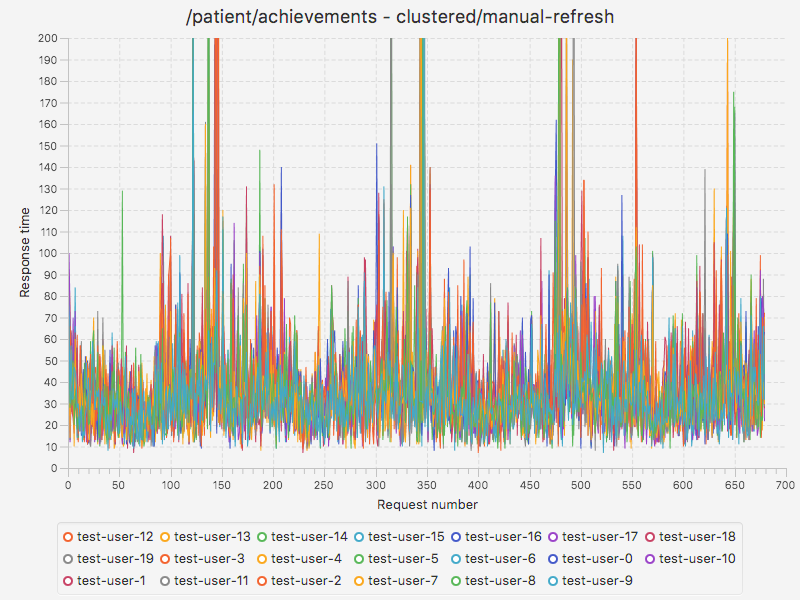
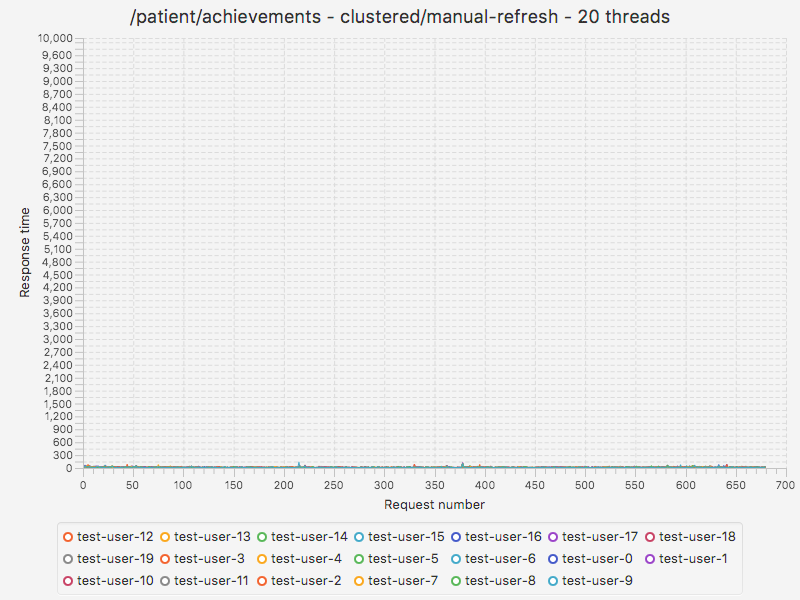
Updated code

Changed region(s): [[0.0312, 0.0, 0.9688, 0.87]]

diff --git a/src/main/java/RequestClass.java b/src/main/java/RequestClass.java
@@ -4,6 +4,7 @@ import org.json.JSONObject;
 
 import javax.net.ssl.HttpsURLConnection;
 import java.io.*;
+import java.net.HttpURLConnection;
 import java.net.URL;
 import java.nio.charset.StandardCharsets;
 import java.nio.file.Files;
@@ -24,7 +25,7 @@ public class RequestClass {
     private String client = "my-trusted-client";
     private String secret = "secret";
     private String host = Start.queryUrl;
-    private String http = "https://";
+    private String http = Start.http;
     private String scope = "read+trust+write";
     private String grantType = "password";
     private String[] skipArray = {"easy", "hard", "pain", "unclear"};
@@ -78,7 +79,7 @@ public class RequestClass {
         System.out.println("Creating user " + username);
         Date start = new Date();
         getAdminAccessToken();
-        HttpsURLConnection connection = getConnection("POST", createUserPath + username, true, true, false);
+        HttpURLConnection connection = getConnection("POST", createUserPath + username, true, true, false);
 
         connection.setRequestProperty( "Content-Type", "application/json");
         writeInRequest(connection, createUserValues);
@@ -118,7 +119,7 @@ public class RequestClass {
     public ArrayList<Long> postNewPlan(long dateTime) throws JSONException {
         Date start = new Date();
         System.out.println("Start new plan for user " + username);
-        HttpsURLConnection connection = getConnection("POST", planNextPath, true, true, false);
+        HttpURLConnection connection = getConnection("POST", planNextPath, true, true, false);
 
         String sendString = "";
         if(this.questions.length() != 0) {
@@ -140,7 +141,7 @@ public class RequestClass {
         boolean wait = waitForPosts;
         String jsonString = getResponse(connection, wait, false, sendString, planNextPath);
 
-        HttpsURLConnection conn = getConnection("GET", currentPlanPath, false, true, false);
+        HttpURLConnection conn = getConnection("GET", currentPlanPath, false, true, false);
         String currentPlan = getResponse(conn, true, false, "", currentPlanPath);
         JSONObject currentPlanParsed = new JSONObject(currentPlan);
         System.out.println("New plan " + currentPlanParsed.toString());
@@ -256,7 +257,7 @@ public class RequestClass {
         System.out.println("Getting tailoring questions for user " + username);
         TimeUnit.MILLISECONDS.sleep(1005);
         Date start = new Date();
-        HttpsURLConnection connection = getConnection("GET", tailoringPath, false, true, false);
+        HttpURLConnection connection = getConnection("GET", tailoringPath, false, true, false);
 
         boolean wait = false;
         String returnString = getResponse(connection, wait, false, "", tailoringPath);
@@ -330,11 +331,11 @@ public class RequestClass {
         //if(tokenType.equals("") || accessToken.equals("")) getAccessToken();
         getAdminAccessToken();
         Date start = new Date();
-        HttpsURLConnection connection1 = getConnection("GET", "/init/reset_static", false, true, false);
+        HttpURLConnection connection1 = getConnection("GET", "/init/reset_static", false, true, false);
 
 
         String jsonString1 = getResponse(connection1, false, false, "", resetPath);
-        HttpsURLConnection connection2 = getConnection("GET", resetPath, false, true, false);
+        HttpURLConnection connection2 = getConnection("GET", resetPath, false, true, false);
 
 
         String jsonString2 = getResponse(connection2, false, false, "", resetPath);
@@ -362,9 +363,9 @@ public class RequestClass {
         }
     }
 
-    private void postRequest(HttpsURLConnection post, String s, String path) { ;
+    private void postRequest(HttpURLConnection post, String s, String path) { ;
         Date start = new Date();
-        HttpsURLConnection connection = post;
+        HttpURLConnection connection = post;
         connection.setRequestProperty("Content-Type", "application/json");
 
         writeInRequest(connection, s);
@@ -382,7 +383,7 @@ public class RequestClass {
 
     private void getGeneric(String path) {
         Date start = new Date();
-        HttpsURLConnection connection = getConnection("GET", path, false, true, false);
+        HttpURLConnection connection = getConnection("GET", path, false, true, false);
         boolean wait = false;
         String returnString = getResponse(connection, wait, false, "", path);
         Date end = new Date();
@@ -407,7 +408,7 @@ public class RequestClass {
                             "password=changeme";
             byte[] postData = urlParameters.getBytes(StandardCharsets.UTF_8);
             Date start = new Date();
-            HttpsURLConnection connection = getConnection("POST", oauthPath, false, true, true);
+            HttpURLConnection connection = getConnection("POST", oauthPath, false, true, true);
 
             connection.setRequestProperty("Content-Type", "application/x-www-form-urlencoded");
             connection.setUseCaches(false);
@@ -442,7 +443,7 @@ public class RequestClass {
                             "password=" + password;
             byte[] postData = urlParameters.getBytes(StandardCharsets.UTF_8);
             Date start = new Date();
-            HttpsURLConnection connection = getConnection("POST", oauthPath, false, true, true);
+            HttpURLConnection connection = getConnection("POST", oauthPath, false, true, true);
 
             connection.setRequestProperty("Content-Type", "application/x-www-form-urlencoded");
             connection.setUseCaches(false);
@@ -467,7 +468,7 @@ public class RequestClass {
         }
     }
 
-    private void writeInRequest(HttpsURLConnection connection, String s) {
+    private void writeInRequest(HttpURLConnection connection, String s) {
         try {
             connection.setRequestProperty("Content-Length", Integer.toString(s.getBytes().length));
             DataOutputStream dataoutput = new DataOutputStream(connection.getOutputStream());
@@ -478,7 +479,7 @@ public class RequestClass {
         }
     }
 
-    private String getResponse(HttpsURLConnection connection, boolean wait, boolean achievement, String request, String path) {
+    private String getResponse(HttpURLConnection connection, boolean wait, boolean achievement, String request, String path) {
         try {
             BufferedReader br = new BufferedReader(new InputStreamReader(connection.getInputStream(), "UTF-8"));
             StringBuilder jsonString = new StringBuilder();
@@ -525,10 +526,10 @@ public class RequestClass {
         return null;
     }
 
-    private HttpsURLConnection getConnection(String type, String path, boolean input, boolean output, boolean basic) {
+    private HttpURLConnection getConnection(String type, String path, boolean input, boolean output, boolean basic) {
         try {
             URL url = new URL(http + host + path);
-            HttpsURLConnection connection = (HttpsURLConnection) url.openConnection();
+            HttpURLConnection connection = (HttpURLConnection) url.openConnection();
             connection.setRequestProperty("Authorization", tokenType + " " + accessToken);
 
             if (basic) {

diff --git a/src/main/java/ChartDrawing.java b/src/main/java/ChartDrawing.java
@@ -21,10 +21,17 @@ import java.util.*;
 public class ChartDrawing extends Application {
 
 
-    public static String filePrefix = Start.thisFile;
+    //public static String filePrefix = Start.thisFile;
     private boolean epochXNumbering = false;
     private boolean doAverageCalculation = false;
     private String typeSetup = Start.typeSetup;
+    private static boolean mongo = false;
+    private static boolean mongoPrefix = false;
+    private static int threadNumbers = 60;
+    private static String folderPostFix = mongoPrefix ? " mongodb activity-achievement" : "";
+    private static String folderPrefix = threadNumbers + "-threads" + folderPostFix + "/";
+    public static String filePrefix = mongo ? "1537352827949.csv" : Start.thisFile;
+    private static String mongodbText = mongo && mongoPrefix ? " - MongoDB - " + threadNumbers + " threads" : mongo ? " - " + threadNumbers + " threads" : "";
 
 
     @Override public void start(Stage stage) {
@@ -50,8 +57,11 @@ public class ChartDrawing extends Application {
 
 
         try {
-
-            br = new BufferedReader(new FileReader("runs/valid/" + typeSetup + "/" + csvFile));
+            if(mongo) {
+                br = new BufferedReader(new FileReader( folderPrefix + csvFile));
+            } else {
+                br = new BufferedReader(new FileReader("runs/valid/" + typeSetup + "/" + csvFile));
+            }
             while ((line = br.readLine()) != null) {
 
                 // use comma as separator
@@ -112,7 +122,7 @@ public class ChartDrawing extends Application {
 
         for(String endpoint : endpoints.keySet()) {
 
-            stage.setTitle(endpoint + " - " + typeSetup);
+            stage.setTitle(endpoint + " - " + typeSetup + mongodbText);
             //defining the axes
             ArrayList<Long> arrayListResults = new ArrayList<>();
             double range = minMaxNumbers.get(endpoint).get("max") - minMaxNumbers.get(endpoint).get("min");
@@ -139,7 +149,7 @@ public class ChartDrawing extends Application {
             LineChart<Number, Number> lineChart =
                     new LineChart<Number, Number>(xAxis, yAxis);
 
-            lineChart.setTitle(endpoint + " - " + typeSetup);
+            lineChart.setTitle(endpoint + " - " + typeSetup + mongodbText);
             lineChart.getStyleClass().add("thick-chart");
             //defining a series
             //System.out.println(endpoint);
@@ -225,23 +235,25 @@ public class ChartDrawing extends Application {
             }
 
             double yAxisUpper = 10000;
-
+            yAxisUpper = 10000;
+            yAxis.setTickUnit(150);
             if(endpoint.equals("/patient/achievements") || endpoint.equals("/patient/totals")) {
                 yAxisUpper = 200;
                 yAxis.setTickUnit(10);
             } else if(endpoint.equals("/patient/activity")) {
-                yAxisUpper = 15000;
+                yAxisUpper = 3500;
                 yAxis.setTickUnit(150);
-            } else if(endpoint.equals("/patient/plan/next")) {
+            } /*else if(endpoint.equals("/patient/plan/next")) {
                 yAxisUpper = 10000;
                 yAxis.setTickUnit(500);
-            } else if(endpoint.equals("/patient/plan/tailoring") || endpoint.equals("/patient/plan/updateuser/exercise")) {
+            }*/ else if(endpoint.equals("/patient/plan/tailoring") || endpoint.equals("/patient/plan/updateuser/exercise")) {
                 yAxisUpper = 2500;
                 yAxis.setTickUnit(125);
             } else if(endpoint.equals("/patient/plan/updateuser/education")) {
                 yAxisUpper = 1500;
                 yAxis.setTickUnit(75);
             }
+
             yAxis.setUpperBound(yAxisUpper);
 
 
@@ -256,7 +268,12 @@ public class ChartDrawing extends Application {
             endpoint = endpoint.substring(1);
 
             stage.setScene(scene);
-            String graphName = "graphs/" + typeSetup + "/" + endpoint.replace("/", "-");
+            String graphName = "";
+            if(mongo) {
+                graphName = folderPrefix + endpoint.replace("/", "-");
+            } else {
+                graphName = "graphs/" + typeSetup + "/" + endpoint.replace("/", "-");
+            }
             if(doAverageCalculation) graphName += "-average";
 
             saveAsPng(scene, graphName + ".png");

diff --git a/src/main/java/Start.java b/src/main/java/Start.java
@@ -14,19 +14,21 @@ import java.util.concurrent.Executors;
 import java.util.concurrent.TimeUnit;
 
 public class Start {
-
-    private static int THREADS = 20;
-    private static int USERNUMBER = 20;
+    private static int THREADS = 60;
+    private static int USERNUMBER = 60;
     private static int doneRemoval = 0;
     public static String thisFile;
     private static int MAXWEEKS = 3;
     private static boolean different_start = false;
-    public static String typeSetup = "clustered/manual-refresh";
+    public static String typeSetup = "clustered/20-regular";
     private static boolean segmenting = typeSetup.contains("segmenting");
     public static boolean manualRefresh = typeSetup.contains("manual-refresh");
     static ArrayList<RequestClass> elementLists = new ArrayList<>();
     private static long lastEndDate = 0L;
-    public static final String queryUrl = "10.53.43.122";
+    public static String http = "http://";
+    public static boolean secure = http.contains("s");
+    private static final String port = ":8887";
+    public static final String queryUrl = "samuel01.idi.ntnu.no" + port;
     private static long planLength = 0L;
 
 
@@ -92,9 +94,13 @@ public class Start {
         setAppClock(thisDate);
 
         try {
-            firstReset.createUser();
+            try {
+                firstReset.createUser();
+            } catch(Exception e) {
+                System.out.println("Got an error while creating user. Trying with a reset");
+            }
             firstReset.resetElastic();
-            System.out.println("Reset, waiting 20 seconds");
+            System.out.println("Reset, waiting 60 seconds");
             wait(20000, true);
 
             if(segmenting) {
@@ -116,9 +122,9 @@ public class Start {
             Date endTesting = new Date();
             System.out.println("Whole testing took: " + ((endTesting.getTime() - startTesting.getTime()) / 1000) + " seconds.");
 
-            ChartDrawing chart = new ChartDrawing();
+            /*ChartDrawing chart = new ChartDrawing();
             chart.startDrawing();
-            System.out.println("Start ChartDrawing with id " + date);
+            System.out.println("Start ChartDrawing with id " + date);*/
             System.exit(1);
 
         } catch (InterruptedException e) {
@@ -157,8 +163,8 @@ public class Start {
     private static void setAppClock(Date nowDate) {
         URL url = null;
         try {
-            url = new URL("https://" + queryUrl + "/clock/" + nowDate.getTime());
-            HttpsURLConnection connection = (HttpsURLConnection) url.openConnection();
+            url = new URL(http + queryUrl + "/clock/" + nowDate.getTime());
+            HttpURLConnection connection = (HttpURLConnection) url.openConnection();
             connection.setDoOutput(true);
             connection.setRequestMethod("GET");
             connection.setUseCaches(false);
@@ -229,8 +235,12 @@ public class Start {
         try {
             executorService.invokeAll(tasks);
             for(int i = 0; i < endDates.size(); i++) {
-                if(endDates.get(i) > lastEndDate) {
-                    lastEndDate = endDates.get(i);
+                try {
+                    if (endDates.get(i) > lastEndDate) {
+                        lastEndDate = endDates.get(i);
+                    }
+                } catch(NullPointerException e) {
+                    System.err.println("This is an nullpointerexception at fetching new plans");
                 }
             }
             executorService.shutdown();
